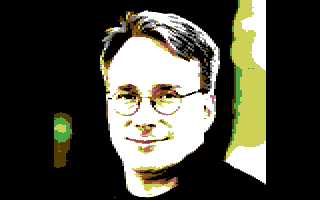
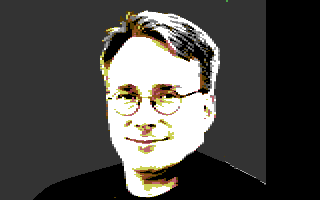
many changes2

diff --git a/java/src/main/java/org/kd/anniversaries/Year2006.java b/java/src/main/java/org/kd/anniversaries/Year2006.java
@@ -1,6 +1,7 @@
 package org.kd.anniversaries;
 
 import com.badlogic.gdx.graphics.Texture;
+import org.kd.common.C64Colors;
 
 public class Year2006 extends Year {
 
@@ -22,10 +23,12 @@ public class Year2006 extends Year {
             c64Font.draw(screen.batch2, "Google acquired YouTube for $1.65 billion", 93, 535);
 
         } else if (frame < this.startingFrame + 0.7 * DEFAULT_DURATION) {
+            this.clearScreen(C64Colors.DARK_GRAY);
             screen.backgroundTexture = this.twitter1;
             c64Font.draw(screen.batch2, "Jack Dorsey,Biz Stone,Noah Glass,and Evan Williams", 28, 535);
 
         } else if (frame < this.endFrame) {
+            this.clearScreen(C64Colors.DARK_GRAY);
             c64Font.draw(screen.batch2, " founded TWITTER in March 2006", 183, 535);
             screen.backgroundTexture = this.twitter2;
         }

diff --git a/java/src/main/java/org/kd/anniversaries/Year1996.java b/java/src/main/java/org/kd/anniversaries/Year1996.java
@@ -37,7 +37,7 @@ public class Year1996 extends Year {
             screen.backgroundTexture = this.java;
 
         } else if (frame < this.endFrame) {
-            if (frame < this.startingFrame + 1.2 * DEFAULT_DURATION)
+            if (frame < this.startingFrame + 1.35 * DEFAULT_DURATION)
                 c64Font.draw(screen.batch2, "In December 1996 flagship product of Sony", 90, 535);
             else c64Font.draw(screen.batch2, " became available in South Africa :D", 90, 535);
             screen.backgroundTexture = this.playstation;

diff --git a/java/src/main/java/org/kd/anniversaries/StaticData.java b/java/src/main/java/org/kd/anniversaries/StaticData.java
@@ -35,6 +35,9 @@ public class StaticData {
     static List<String> outroMessages2 = Arrays.asList(
             " ".repeat(2) + "CODE: KD",
             " ".repeat(2) + "MSX:  Gravitation by RAMOS",
-            " ".repeat(2) + "https://csdb.dk/sid/?id=39487"
+            " ".repeat(2) + "https://csdb.dk/sid/?id=39487",
+            " ",
+            "All pictures in this demo are either in",
+            "KOALA or ART-STUDIO format and quality."
     );
 }

diff --git a/java/src/main/java/org/kd/anniversaries/Scene1c64.java b/java/src/main/java/org/kd/anniversaries/Scene1c64.java
@@ -159,7 +159,7 @@ public class Scene1c64 extends BasicC64Screen {
             this.gravitationRamos.stop();
             thanksForWatching.play();
         }
-        else if (frame > this.outroBeginFrame + 1400) {
+        else if (frame > this.outroBeginFrame + 1650) {
             Gdx.app.exit();
             System.out.println("\n".repeat(50) + "End demo: " + C64Helper.countElapsedTime() + " frame = " + frame);
             this.dispose();
